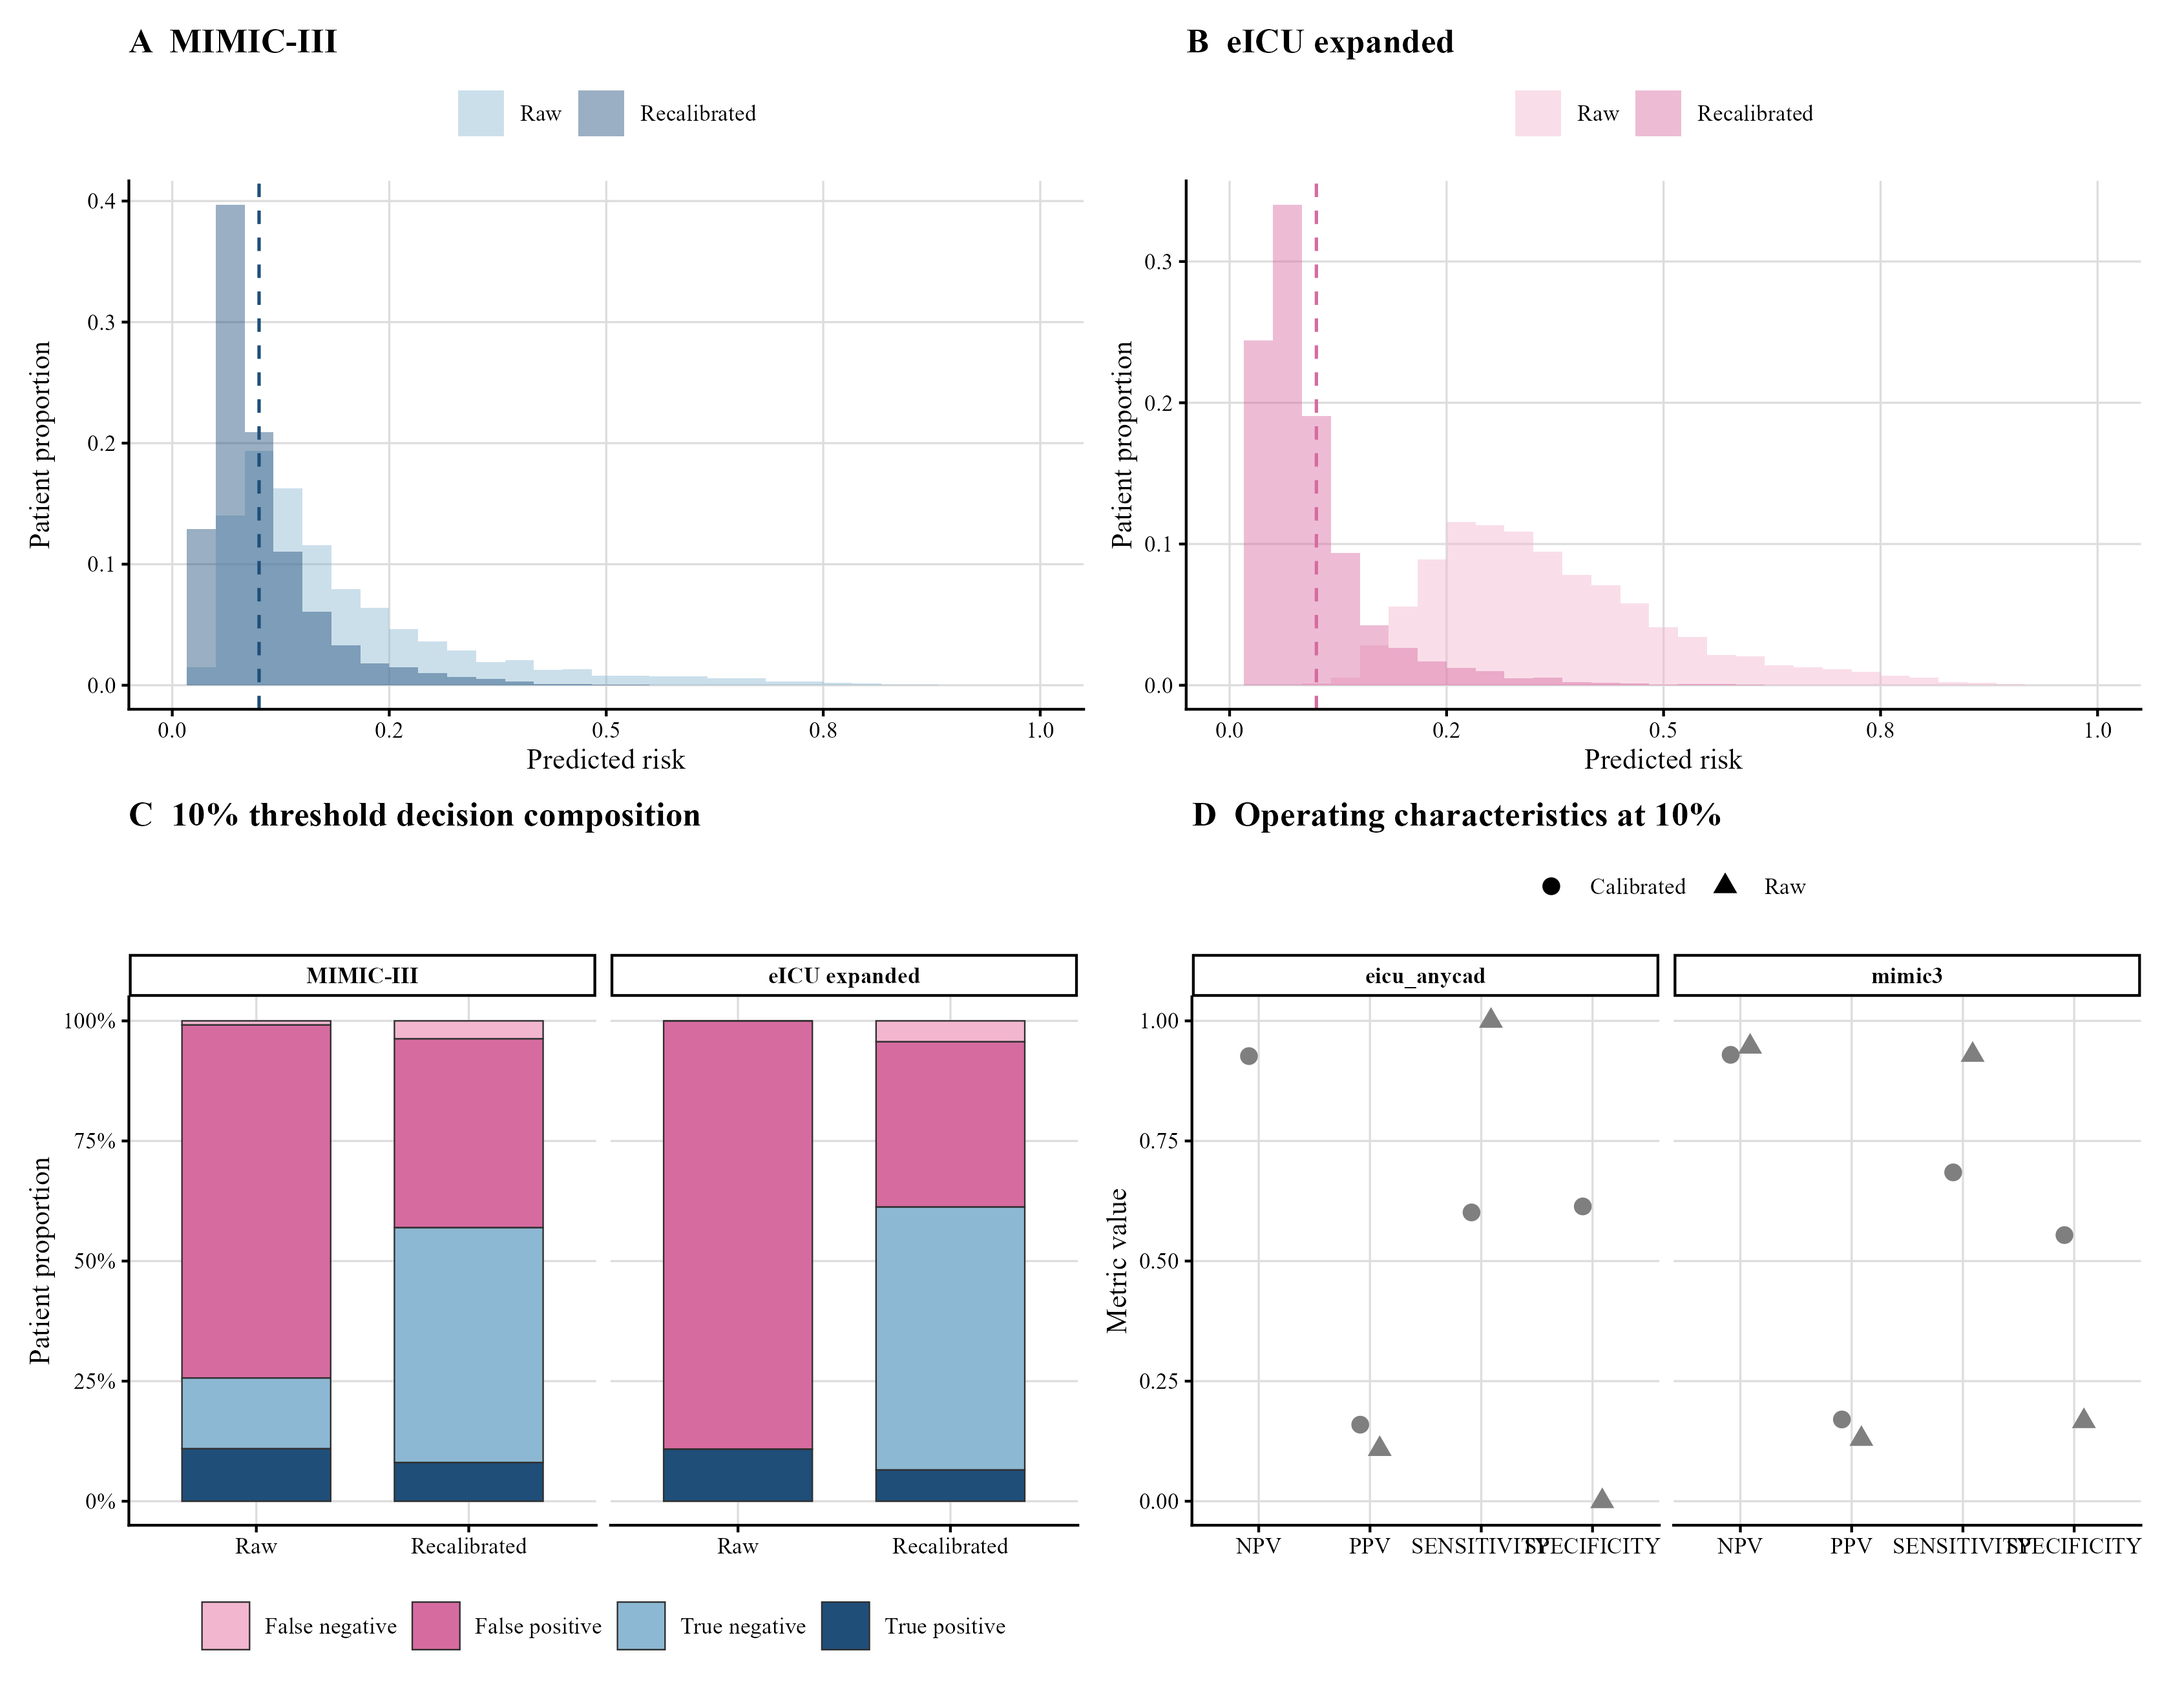
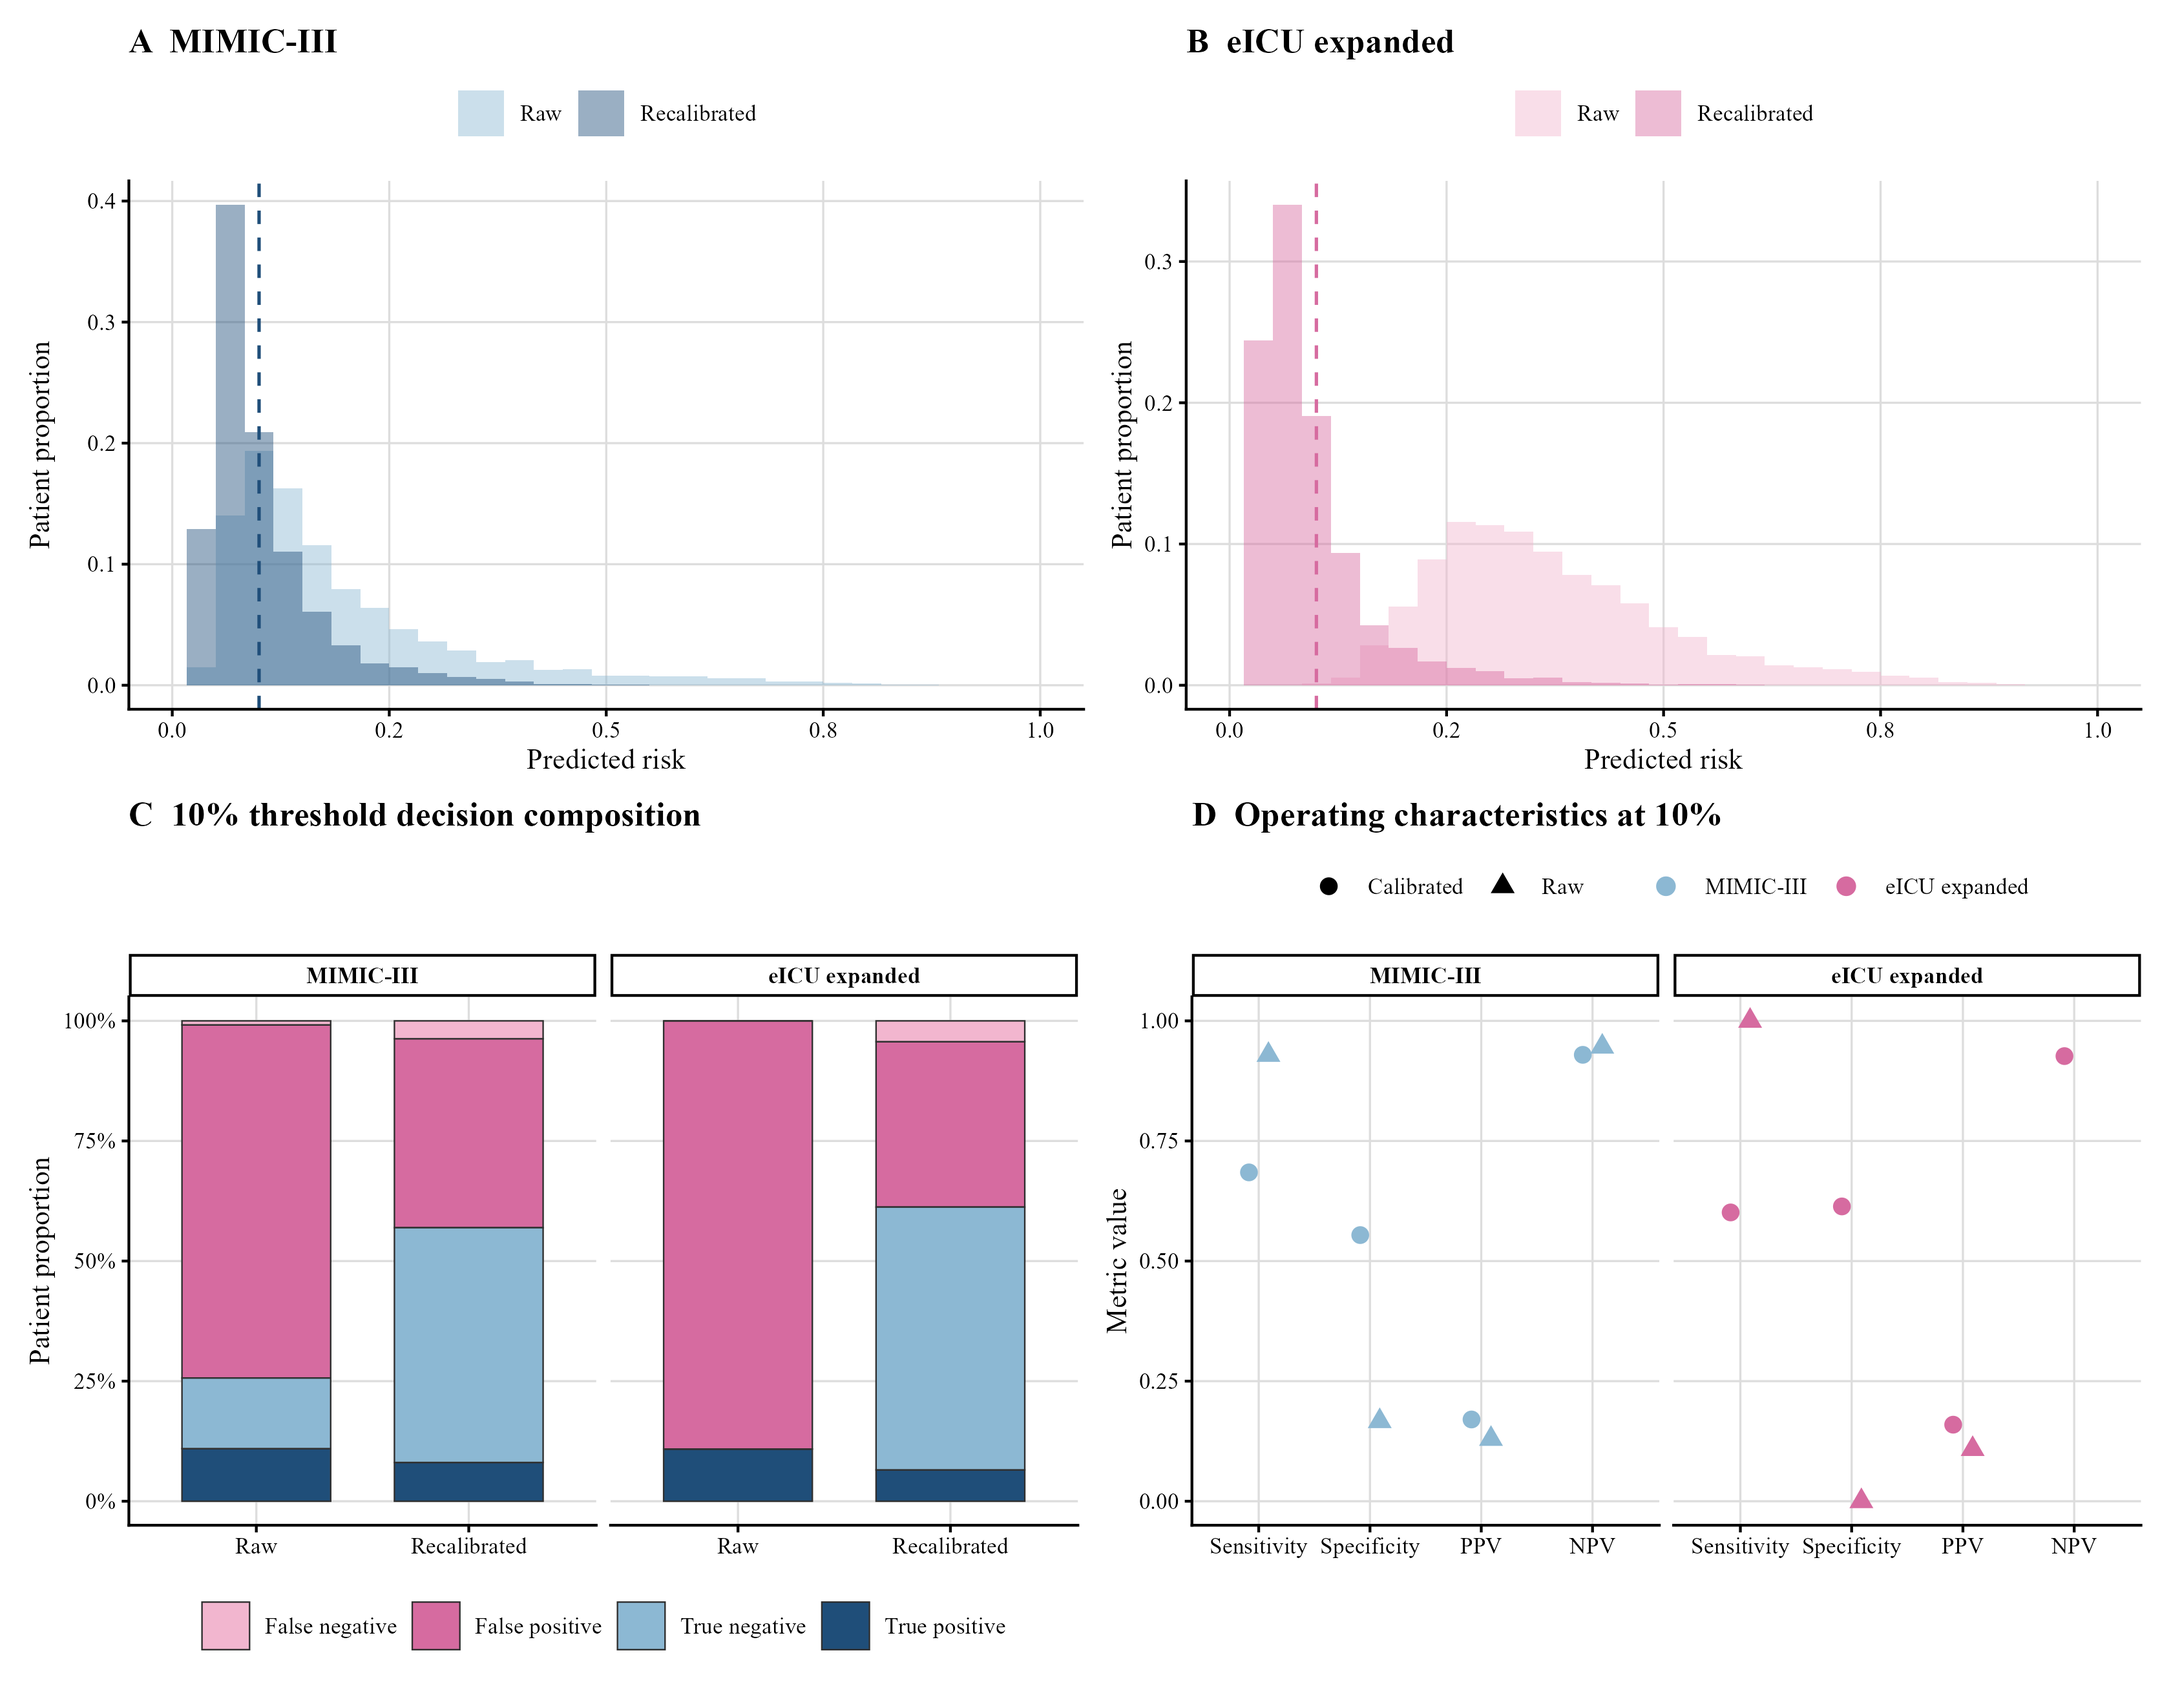
Finalize database colors and operating-characteristic labels

diff --git a/work/audit_figure_palette.py b/work/audit_figure_palette.py
@@ -1,4 +1,4 @@
-"""Audit cohort colors, Figure 5D caption, and absence of orange in figures."""
+"""Audit panel-level cohort colors and the revised manuscript figures."""
 from __future__ import annotations
 
 import json
@@ -18,14 +18,34 @@ PALETTE = {
 }
 
 images = {}
+crops = {}
 for path in sorted(FIGURE_DIR.glob("figure*.png")):
     array = np.asarray(Image.open(path).convert("RGB"))
+    height, width = array.shape[:2]
     images[path.name] = {
         "palette_pixels": {
             name: int(np.all(array == colour, axis=2).sum())
             for name, colour in PALETTE.items()
         },
     }
+    crops[path.name] = {
+        "figure1a": array[
+            int(0.08 * height):int(0.48 * height),
+            :int(0.50 * width),
+        ],
+        "figure5d": array[
+            int(0.50 * height):,
+            int(0.50 * width):,
+        ],
+        "figure7d": array[
+            int(0.55 * height):int(0.95 * height),
+            int(0.50 * width):,
+        ],
+    }
+
+
+def exact_colour_count(image: np.ndarray, colour: tuple[int, int, int]) -> int:
+    return int(np.all(image == colour, axis=2).sum())
 
 script = (ROOT / "work" / "replot_figures.R").read_text(encoding="utf-8")
 document = Document(ROOT / "1108manuscript.docx")
@@ -43,6 +63,31 @@ checks = {
     ),
     "figure8c_invariance": (
         "(C) eICU documentation-lag invariance" in text
+    ),
+    "figure1a_database_colors": all(
+        exact_colour_count(crops["figure1_overall_roadmap.png"]["figure1a"], colour)
+        > 2_000
+        for colour in PALETTE.values()
+    ),
+    "figure5d_diverging_colors": (
+        exact_colour_count(
+            crops["figure5_model_selection.png"]["figure5d"],
+            PALETTE["MIMIC-IV deep blue"],
+        ) > 500
+        and exact_colour_count(
+            crops["figure5_model_selection.png"]["figure5d"],
+            PALETTE["eICU pink"],
+        ) > 500
+    ),
+    "figure7d_database_colors": (
+        exact_colour_count(
+            crops["figure7_risk_and_decisions.png"]["figure7d"],
+            PALETTE["MIMIC-III light blue"],
+        ) > 100
+        and exact_colour_count(
+            crops["figure7_risk_and_decisions.png"]["figure7d"],
+            PALETTE["eICU pink"],
+        ) > 100
     ),
 }
 report = {"checks": checks, "images": images}
